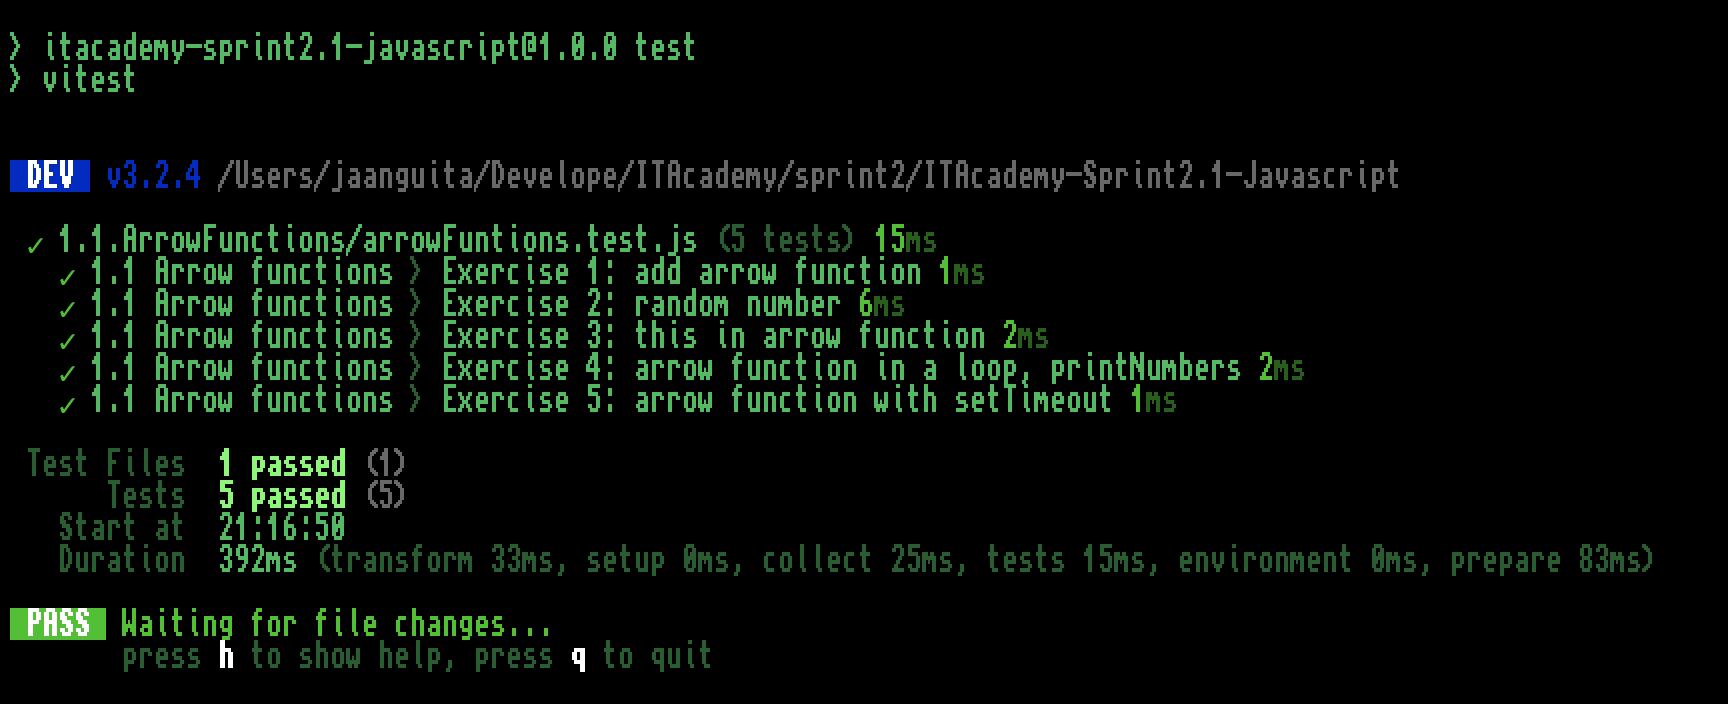
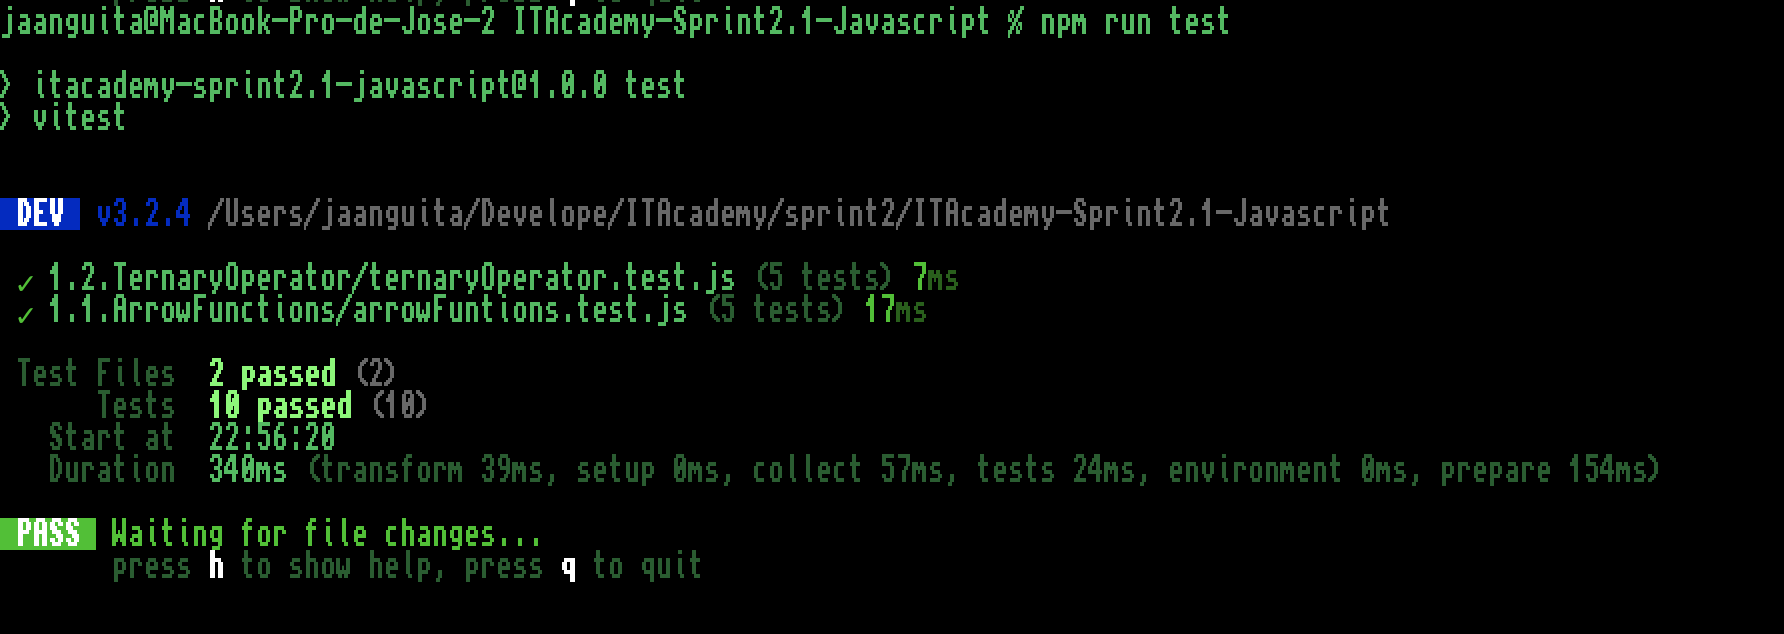
Added the exercise 1.2 implementations and tests. Changed the screenshot for the readme and the readme itself. Added a github action to run the tests in all the pull requests

Changed region(s): [[0.0, 0.2997, 0.9688, 0.959], [0.0, 0.0, 0.8125, 0.2697]]

diff --git a/1.2.TernaryOperator/ternaryOperator.test.js b/1.2.TernaryOperator/ternaryOperator.test.js
@@ -1,0 +1,52 @@
+import { expect, test, vi, describe, afterAll, beforeAll } from 'vitest';
+import { potConduir, comparador, positiuNegatiuOZero, trobarMaxim, parOImpar } from './ternaryOperator';
+
+describe ('1.2 Ternary Operator', () => {
+  test('Exercise 1: potConduir function', () => {
+    expect(potConduir(1)).toBe('No pots conduir');
+    expect(potConduir(18)).toBe('Pots conduir');
+    expect(potConduir(21)).toBe('Pots conduir');
+    expect(potConduir(5)).toBe('No pots conduir');
+  });
+
+  test('Exercise 2: number comparator function', () => {
+    expect(comparador(1, 4)).toBe('num2 es mes gran');
+    expect(comparador(2, 4)).toBe('num2 es mes gran');
+    expect(comparador(13, 4)).toBe('num1 es mes gran');
+    expect(comparador(0, 0)).toBe('num2 es mes gran');
+  });
+
+  describe('Exercise 3: positiuNegatiuOZero and trobarMaxim', () => {
+    test('positiuNegatiuOZero function', () => {
+      expect(comparador(-1, -3)).toBe('num1 es mes gran');
+      expect(comparador(2, 4)).toBe('num2 es mes gran');
+      expect(comparador(13, 4)).toBe('num1 es mes gran');
+      expect(comparador(0, 0)).toBe('num2 es mes gran');
+    });
+
+    test('trobarMaxim function', () => {
+      expect(trobarMaxim(1,2,3)).toBe(3);
+      expect(trobarMaxim(100,2,30)).toBe(100);
+      expect(trobarMaxim(20,21,13)).toBe(21);
+      expect(trobarMaxim(0.1,5.4,-3)).toBe(5.4);
+    });
+  })
+
+  test('Exercise 4: parOImpar function', () => {
+    const consoleLogMock = vi.spyOn(console, 'log').mockImplementation(() => undefined);
+    const numbers = [12, 5, 79, 103, 88];
+    
+    parOImpar(numbers);
+    
+    expect(consoleLogMock).toHaveBeenCalledWith('El número 12 es parell');
+    expect(consoleLogMock).toHaveBeenCalledWith('El número 5 es imparell');
+    expect(consoleLogMock).toHaveBeenCalledWith('El número 79 es imparell');
+    expect(consoleLogMock).toHaveBeenCalledWith('El número 103 es imparell');
+    expect(consoleLogMock).toHaveBeenCalledWith('El número 88 es parell');
+    
+    consoleLogMock.mockReset();
+  });
+
+})
+
+

diff --git a/1.2.TernaryOperator/ternaryOperator.js b/1.2.TernaryOperator/ternaryOperator.js
@@ -1,0 +1,15 @@
+const potConduir = (edat) => edat >= 18 ? 'Pots conduir' : 'No pots conduir';
+const comparador = (num1, num2) => num1 > num2 ? 'num1 es mes gran' : 'num2 es mes gran';
+const positiuNegatiuOZero = (num) => num > 0 ? 'positiu' : num < 0 ? 'negatiu' : 'zero';
+const trobarMaxim = (a, b, c) => {
+  return a > b ? (a > c ? a : c) : 
+    (b > c ?  (b > a ? b : a) : 
+    (c > a ? (c > b ? c : b) : a));
+}
+const parOImpar = (nums) => {
+  for (let i=0; i< nums.length; i++) {
+    console.log(`El número ${nums[i]} es ${nums[i] % 2 == 0 ? 'parell' : 'imparell' }`);
+  }
+}
+
+export { potConduir, comparador, positiuNegatiuOZero, trobarMaxim, parOImpar };

diff --git a/README.md b/README.md
@@ -2,6 +2,7 @@
 
 This repository implements the Sprint 2.1 
 - Exercici 1.1: Arrow functions.
+- Exercise 1.2: Ternary operator
 
 The project is a vite project with only javascript code that implements the exercises. The structure of the exercises is the next one:
 
@@ -24,8 +25,10 @@ npm install
 npm run test
 ```
 
-![alt basic screenshot from the project](https://github.com/neuroflip/ITAcademy-Sprint2.1-Javascript/blob/exercise/ArrowFunctions/etc/tests.png)
+![alt basic screenshot from the project](https://github.com/neuroflip/ITAcademy-Sprint2.1-Javascript/blob/main/etc/tests.png)
 
 # Why this exercises include tests?
 
 The reason is because this is the best way to check the functions or code to implement. This way we can ensure that the implementation works correctly based on the statement of the exercise.
+
+** Note that the repository includes the 
